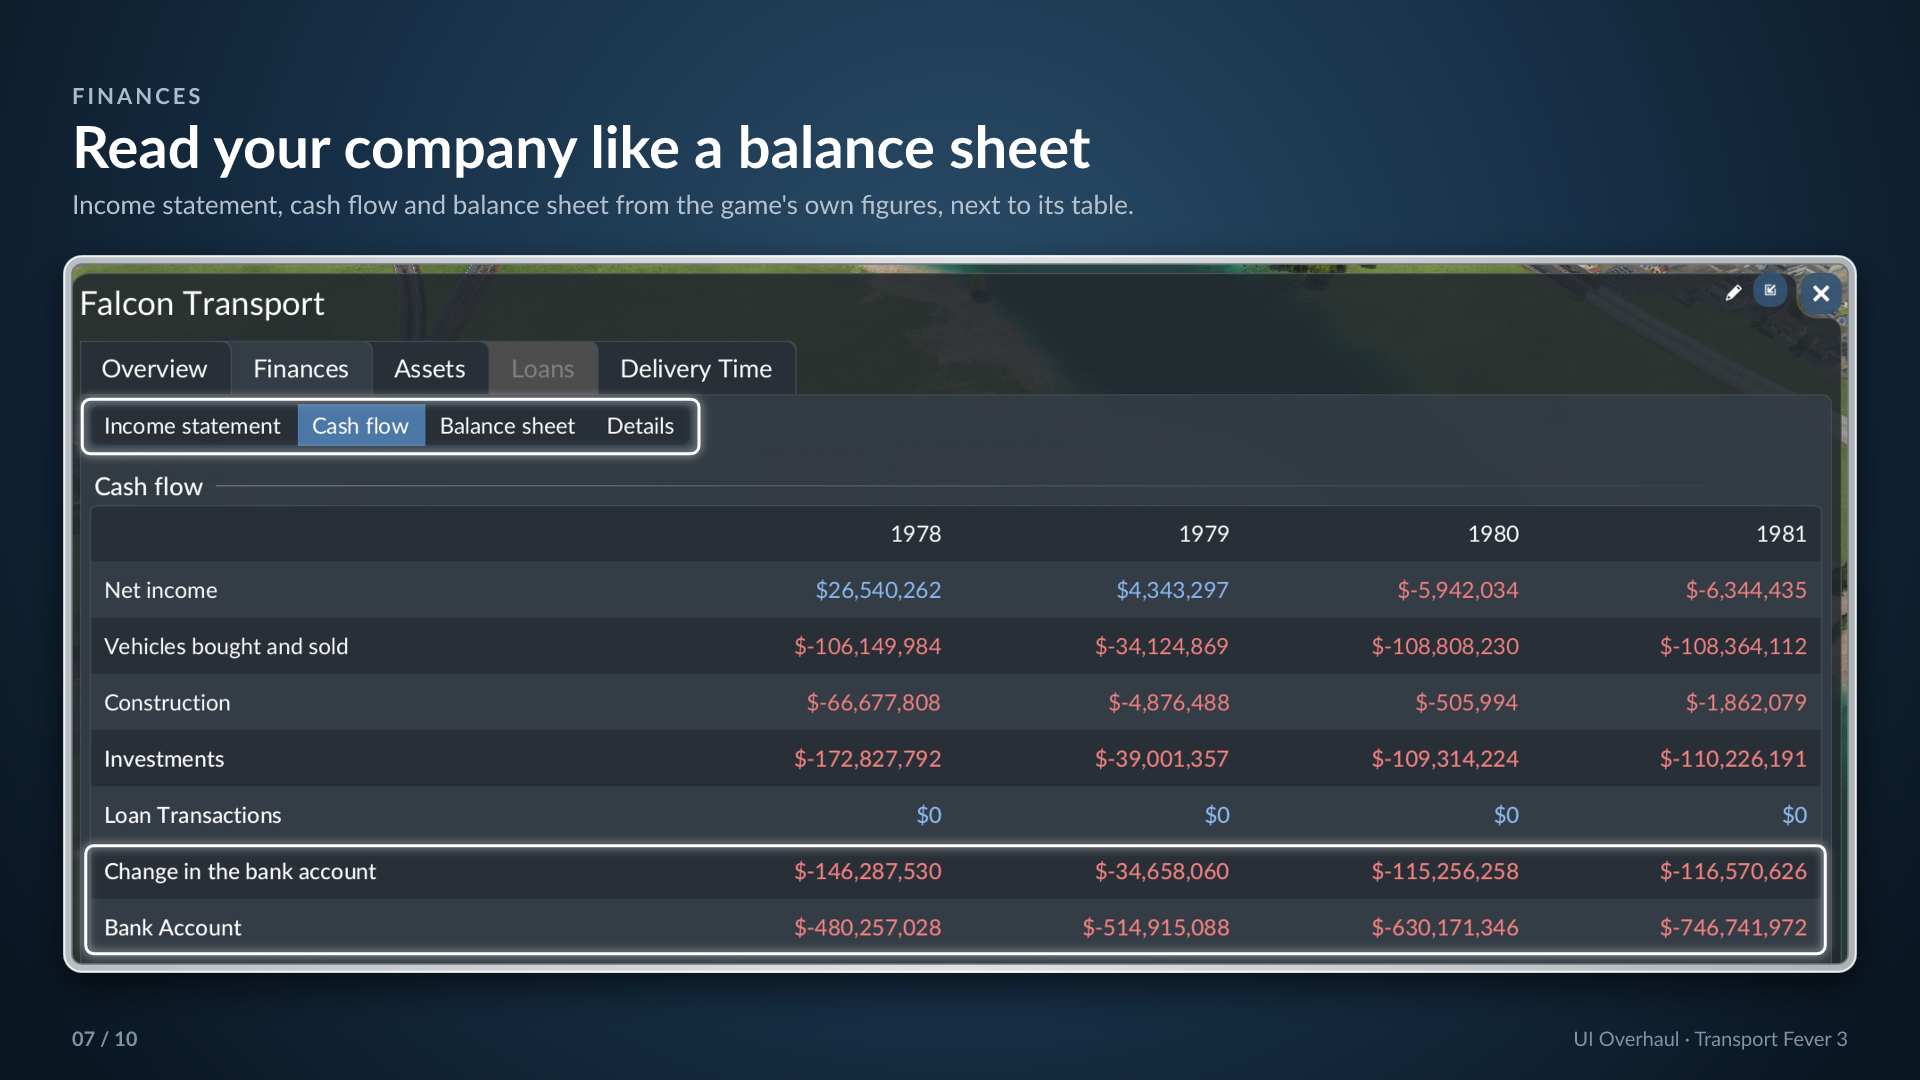
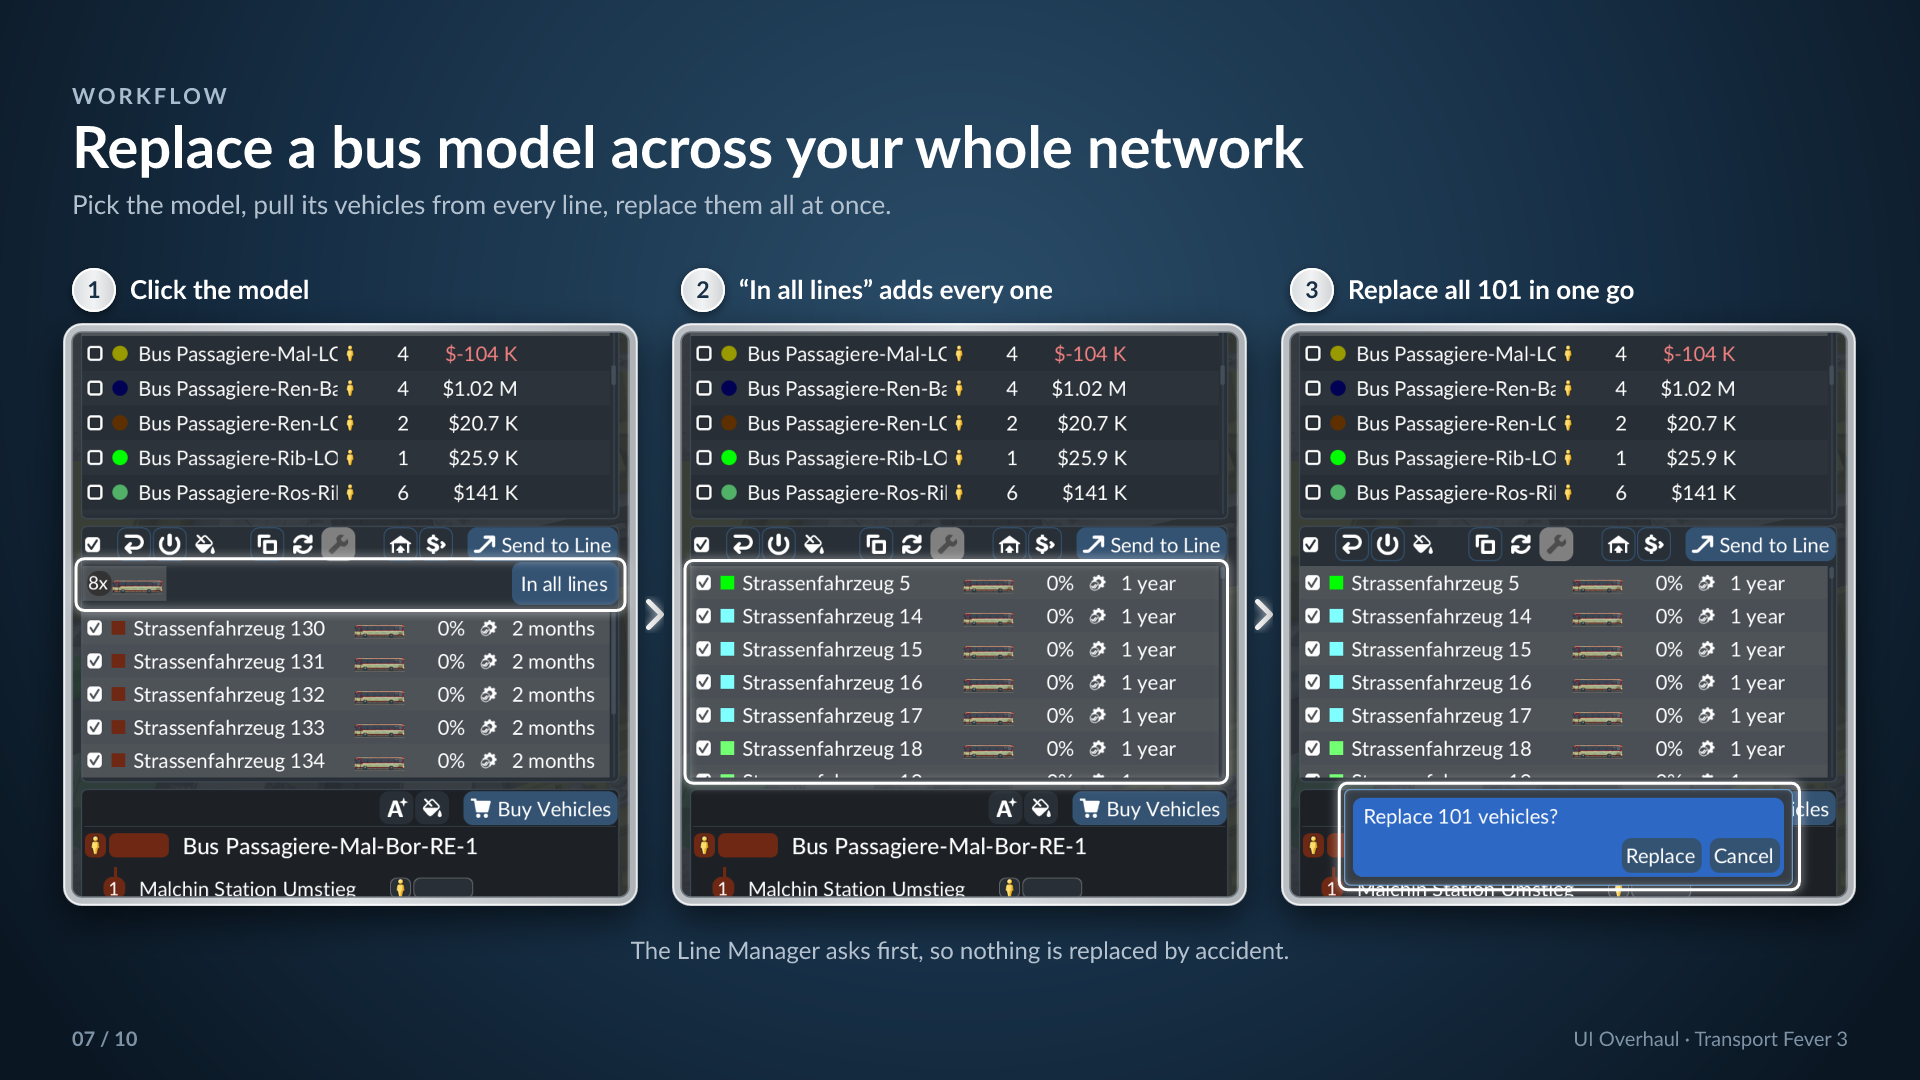
Gallery: the bus-model workflow instead of the finance card

diff --git a/tools/gallery/compose.py b/tools/gallery/compose.py
@@ -272,7 +272,7 @@ def statistics():
 
 
 def workflow():
-    c = Card(13, TOTAL, "Workflow", "Replace a bus model across your whole network",
+    c = Card(7, TOTAL, "Workflow", "Replace a bus model across your whole network",
              "Pick the model, pull its vehicles from every line, replace them all at once.")
     crop = (100, 250, 690, 700)
     steps = [
@@ -294,7 +294,7 @@ def workflow():
             c.arrow(x + w + gap / 2, y + h / 2, 13)
     c.text(W / 2, y + h + 62, "The Line Manager asks first, so nothing is replaced by accident.", 24, MUTED, 400,
            "middle")
-    return "13-workflow-replace-model", c
+    return "07-workflow-replace-model", c
 
 
 def overview():
@@ -381,7 +381,7 @@ def warehouses():
 
 
 def finances():
-    c = Card(7, TOTAL, "Finances", "Read your company like a balance sheet",
+    c = Card(11, TOTAL, "Finances", "Read your company like a balance sheet",
              "Income statement, cash flow and balance sheet from the game's own figures, next to its table.")
     src = MOD + "gallery_finances_cashflow.png"
     crop = (730, 96, 1990, 784)  # the window, from its title to the last row
@@ -391,7 +391,7 @@ def finances():
     m = c.shot(src, crop, (x, TOP + 8, w, h))
     c.outline(c.mapped(m, (746, 252, 682, 52)))    # the statements
     c.outline(c.mapped(m, (750, 752, 1940, 112)))  # change in the bank account, bank account
-    return "07-finances", c
+    return "11-finances", c
 
 
 def build_tooltip():
@@ -456,8 +456,8 @@ def minimize():
     return "10-minimize", c
 
 
-CARDS = [before_after, line_window, vehicle_hover, terminals, industry, statistics, finances, build_tooltip, notifications, minimize]
-# not in the gallery (mod.io takes at most 10 images per upload): warehouses, catchment, workflow, overview
+CARDS = [before_after, line_window, vehicle_hover, terminals, industry, statistics, workflow, build_tooltip, notifications, minimize]
+# not in the gallery (mod.io takes at most 10 images per upload): warehouses, finances, catchment, overview
 
 
 def main():

diff --git a/docs/gallery.md b/docs/gallery.md
@@ -43,12 +43,12 @@ The card numbers are the gallery order; the captions are for the gallery, the lo
 | 4 | `04-terminals` | Set a stop's terminals in one click |
 | 5 | `05-industry` | Know why an industry isn't growing |
 | 6 | `06-statistics` | Find the lines that lose money in one click |
-| 7 | `07-finances` | Read your company like a balance sheet |
+| 7 | `07-workflow-replace-model` | Replace a bus model across your whole network |
 | 8 | `08-build-tooltip` | Know the gradient before you build |
 | 9 | `09-notifications` | Fewer icons, clearer colours, offers that say when they end |
 | 10 | `10-minimize` | Minimize any window to its title bar |
 
-`compose.py` also has cards for the warehouses, catchment areas, the model workflow and an overview; they
+`compose.py` also has cards for the warehouses, the finance statements, catchment areas and an overview; they
 are left out of `CARDS` to stay within the 10 images.
 
 1. **Line Manager.** Every line shows its vehicle count and its balance over the last 12 months, red
@@ -68,8 +68,9 @@ are left out of `CARDS` to stay within the 10 images.
    hides the red area of a blocked expansion. Served by lists the lines that reach it.
 6. **Statistics.** Quick filters above the Lines, Vehicles, Stations and Warehouses tabs (losing
    money, problems, no vehicles, old, crowded …), and totals for exactly what the filter shows.
-7. **Finances.** The Finances tab shows the game's figures as an income statement, a cash flow
-   statement and a balance sheet; *Details* keeps the game's own table.
+7. **Replacing a model.** Select the model in the row above the vehicle list, add its vehicles from
+   every line with "In all lines", then replace them in one go. The Line Manager asks before it
+   replaces or clones several vehicles.
 8. **Construction.** While you draw track or road, the build tooltip gives the length, the steepest
    gradient and the tightest curve with the limits of the chosen type, the height range and the angle.
 9. **Notifications.** Notifications of the same kind share one icon with a count; click to visit
